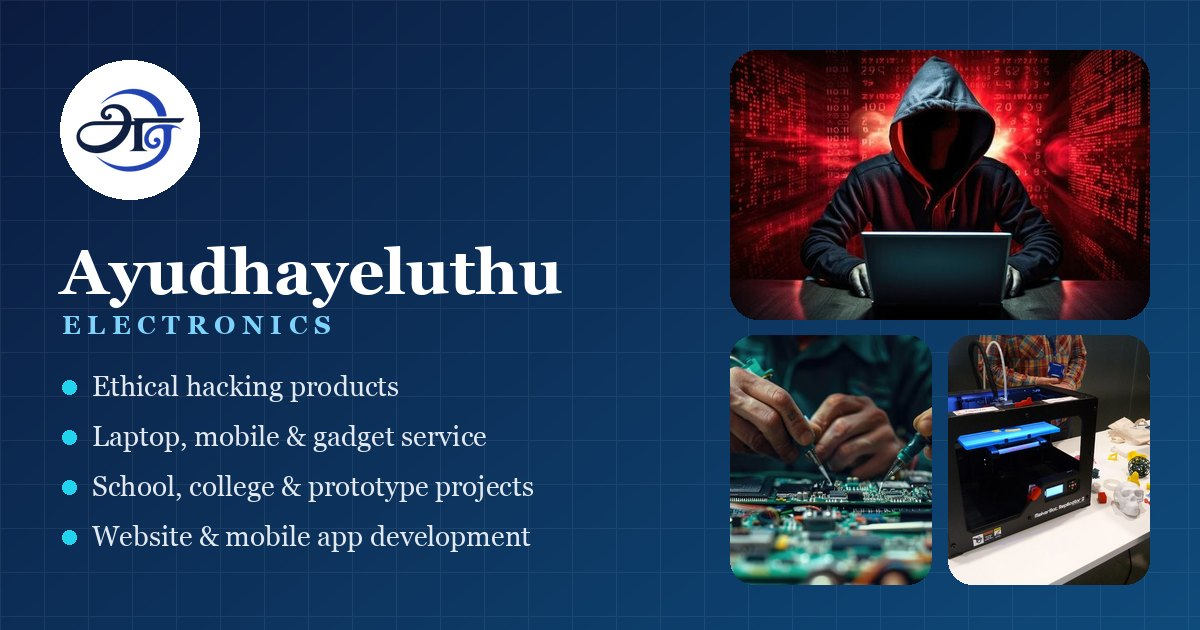
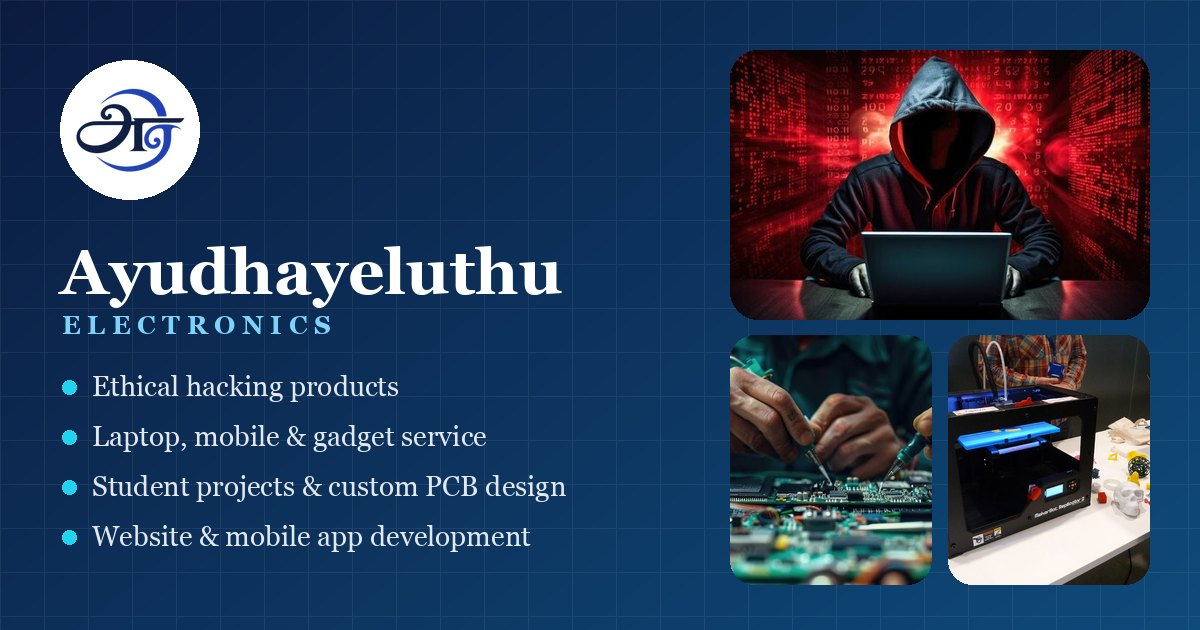
ui changes

Changed region(s): [[0.0925, 0.754, 0.4625, 0.8143]]

diff --git a/src/config.js b/src/config.js
@@ -12,20 +12,21 @@ export const SITE = {
   siteUrl: 'https://ragavanperarasu.github.io/ayudhayeluthuElectronics',
   seo: {
     // Title and description Google shows for the home page
-    title: 'Ayudhayeluthu Electronics | Ethical Hacking, Device Repair, Projects, Websites & Apps',
+    title: 'Ayudhayeluthu Electronics | Ethical Hacking, Device Repair, PCB Design, Websites & Apps',
     description:
-      'Ethical hacking tools, laptop & mobile repair, school and college projects, website and mobile app development. Order easily on WhatsApp.',
+      'Ethical hacking tools, laptop & mobile repair, student projects, custom PCB design, websites and mobile apps. Order easily on WhatsApp.',
     keywords: [
       'ethical hacking products', 'cybersecurity tools', 'Wi-Fi testing tools', 'RFID NFC tools',
       'laptop service', 'mobile service', 'gadget repair', 'school projects', 'college projects',
-      'final year projects', 'prototype building', 'website development', 'e-commerce website',
+      'final year projects', 'prototype building', 'custom PCB design', 'PCB designing', 'single sided PCB', 'double sided PCB', 'multilayer PCB',
+      'PCB assembly', 'website development', 'e-commerce website',
       'mobile app development', 'Android app development', 'iOS app development', 'Ayudhayeluthu Electronics',
     ],
     // Picture shown when the site is shared on WhatsApp, Facebook, LinkedIn… (1200×630, in public/)
     image: 'og-image.jpg',
     locale: 'en_IN',
   },
-  tagline: 'Ethical hacking products, device service, custom projects, websites and mobile apps.',
+  tagline: 'Ethical hacking products, device service, custom projects, PCB design, websites and mobile apps.',
 
   // WhatsApp number with country code, digits only (no +, spaces or dashes)
   whatsappNumber: '916385646698',
@@ -33,7 +34,7 @@ export const SITE = {
   currency: '₹',
 
   // Short points shown in the hero section
-  highlights: ['Ethical hacking tools', 'Laptop, mobile & gadget service', 'School, college & prototype projects', 'Websites & mobile apps'],
+  highlights: ['Ethical hacking tools', 'Laptop, mobile & gadget service', 'School, college & prototype projects', 'Custom PCB design', 'Websites & mobile apps'],
 
   // ── ABOUT ME section ──────────────────────────────────────
   owner: {
@@ -45,8 +46,8 @@ export const SITE = {
     linkedin: 'https://www.linkedin.com/in/perarasu-m-766376362',
     // Each line below is one paragraph — edit freely
     about: [
-      "Hi, I'm Perarasu, the founder of Ayudhayeluthu Electronics. I work across ethical hacking products, electronic device service, custom-built projects, websites and mobile apps.",
-      'I supply tools and kits for learning cybersecurity, service laptops, mobiles and tech gadgets, build custom school projects, college projects and prototypes, and develop websites and mobile apps made to your requirement.',
+      "Hi, I'm Perarasu, the founder of Ayudhayeluthu Electronics. I work across ethical hacking products, electronic device service, custom-built projects, PCB design, websites and mobile apps.",
+      'I supply tools and kits for learning cybersecurity, service laptops, mobiles and tech gadgets, build custom school projects, college projects and prototypes, design custom PCBs, and develop websites and mobile apps made to your requirement.',
       'Every order and enquiry is handled personally, so you always talk directly to me.',
     ],
   },
@@ -67,6 +68,11 @@ export const SITE = {
       icon: 'custom',
       title: 'Custom products',
       text: 'School projects, college projects and prototypes built to your requirement.',
+    },
+    {
+      icon: 'pcb',
+      title: 'Custom PCB design',
+      text: 'Single-sided, double-sided and multilayer PCB design, plus assembly.',
     },
     {
       icon: 'web',

diff --git a/src/data/categories.js b/src/data/categories.js
@@ -127,6 +127,47 @@ const categories = [
     ],
   },
   {
+    id: 'pcb-design',
+    name: 'Custom PCB Design',
+    shortName: 'PCB Design',
+    icon: 'pcb',
+    image: 'images/categories/custom-pcb-design.jpg',
+    imageAlt: 'PCB layout design with copper traces on both layers',
+    tagline: 'Single-sided, double-sided and multilayer PCBs designed to your circuit.',
+    description:
+      'Send us your circuit or idea and we design the schematic and PCB layout, prepare Gerber files and help you get boards made and assembled.',
+    subcategories: [
+      {
+        id: 'single-sided-pcb',
+        name: 'Single-Sided PCB',
+        image: 'images/categories/single-sided-pcb.jpg',
+        imageAlt: 'Single-sided PCB with through-hole components',
+        description: 'Copper on one side: low-cost boards for simple circuits and student projects.',
+      },
+      {
+        id: 'double-sided-pcb',
+        name: 'Double-Sided PCB',
+        image: 'images/categories/double-sided-pcb.jpg',
+        imageAlt: 'Green double-sided PCB with traces and plated vias',
+        description: 'Copper on both sides with plated vias for compact, more complex circuits.',
+      },
+      {
+        id: 'multilayer-pcb',
+        name: 'Multilayer PCB',
+        image: 'images/categories/multilayer-pcb.jpg',
+        imageAlt: 'High-density multilayer PCB with a microcontroller chip',
+        description: '4 or more layers for high-density, high-speed and microcontroller designs.',
+      },
+      {
+        id: 'pcb-assembly',
+        name: 'PCB Assembly',
+        image: 'images/categories/pcb-assembly.jpg',
+        imageAlt: 'Assembled PCB populated with electronic components',
+        description: 'Soldering of SMD and through-hole components on your boards, tested and ready to use.',
+      },
+    ],
+  },
+  {
     id: 'website-development',
     name: 'Website Development',
     shortName: 'Websites',

diff --git a/src/data/products.js b/src/data/products.js
@@ -23,11 +23,12 @@
 //    specs: { Chipset: 'Example', Interface: 'USB 3.0' },
 //  },
 //
-//  Category ids:      ethical-hacking, device-service, custom-projects,
+//  Category ids:      ethical-hacking, device-service, custom-projects, pcb-design,
 //                     website-development, mobile-app-development
 //  Sub-category ids:  wifi-network, usb-hid, rfid-nfc, learning-kits,
 //                     laptop-service, mobile-service, gadget-service,
 //                     school-projects, college-projects, prototype-building,
+//                     single-sided-pcb, double-sided-pcb, multilayer-pcb, pcb-assembly,
 //                     business-websites, ecommerce-websites, portfolio-websites,
 //                     android-apps, ios-apps, cross-platform-apps
 // ─────────────────────────────────────────────────────────────

diff --git a/src/components/Header.jsx b/src/components/Header.jsx
@@ -48,7 +48,7 @@ export default function Header({ onCartClick }) {
           </IconButton>
           <Logo />
           <Box sx={{ flexGrow: 1 }} />
-          <Stack direction="row" spacing={0.25} sx={{ display: { xs: 'none', lg: 'flex' } }}>
+          <Stack direction="row" spacing={0} sx={{ display: { xs: 'none', lg: 'flex' } }}>
             {links.map((l) => (
               <Button
                 key={l.to}
@@ -58,6 +58,10 @@ export default function Header({ onCartClick }) {
                 color="inherit"
                 sx={{
                   fontWeight: 700,
+                  fontSize: 15,
+                  whiteSpace: 'nowrap', // keep every label on one line
+                  minWidth: 0,
+                  px: 1.25,
                   color: 'text.secondary',
                   '&.active': { color: 'primary.main', bgcolor: 'rgba(37,99,235,.08)' },
                 }}

diff --git a/src/components/CategoryIcon.jsx b/src/components/CategoryIcon.jsx
@@ -4,6 +4,7 @@ import EmojiObjectsRoundedIcon from '@mui/icons-material/EmojiObjectsRounded';
 import CategoryRoundedIcon from '@mui/icons-material/CategoryRounded';
 import LanguageRoundedIcon from '@mui/icons-material/LanguageRounded';
 import PhoneIphoneRoundedIcon from '@mui/icons-material/PhoneIphoneRounded';
+import DeveloperBoardRoundedIcon from '@mui/icons-material/DeveloperBoardRounded';
 
 const ICONS = {
   security: SecurityRoundedIcon,
@@ -11,6 +12,7 @@ const ICONS = {
   custom: EmojiObjectsRoundedIcon,
   web: LanguageRoundedIcon,
   app: PhoneIphoneRoundedIcon,
+  pcb: DeveloperBoardRoundedIcon,
 };
 
 export default function CategoryIcon({ name, ...props }) {

diff --git a/src/components/Hero.jsx b/src/components/Hero.jsx
@@ -20,7 +20,7 @@ const showcase = [
 ].map((s) => ({ image: s.image, alt: s.alt || s.imageAlt, label: s.label }));
 
 // Phrases that rotate in the headline
-const PHRASES = ['ethical hacking tools', 'laptop & mobile repair', 'custom-built projects', 'websites & mobile apps'];
+const PHRASES = ['ethical hacking tools', 'laptop & mobile repair', 'custom-built projects', 'custom PCB design', 'websites & mobile apps'];
 
 // entrance animation for the left column, one element after another
 const column = { hidden: {}, show: { transition: { staggerChildren: 0.12, delayChildren: 0.15 } } };

diff --git a/src/seo/pageMeta.js b/src/seo/pageMeta.js
@@ -15,7 +15,7 @@ export const homeMeta = () => ({ title: '', description: SITE.seo.description, i
 
 export const aboutMeta = () => ({
   title: `About ${SITE.owner.name} – Founder`,
-  description: `Meet ${SITE.owner.name}, founder of ${SITE.name}: ethical hacking products, device service, custom projects, websites and mobile apps.`,
+  description: `Meet ${SITE.owner.name}, founder of ${SITE.name}: ethical hacking products, device service, custom projects, PCB design, websites and mobile apps.`,
   image: SITE.owner.photo,
 });
 

diff --git a/src/pages/AboutPage.jsx b/src/pages/AboutPage.jsx
@@ -11,7 +11,7 @@ export default function AboutPage() {
       <PageBanner
         crumbs={[{ label: 'Home', to: '/' }, { label: 'About' }]}
         title="About Ayudhayeluthu Electronics"
-        description="Ethical hacking products, device service, custom projects, websites and mobile apps, handled personally."
+        description="Ethical hacking products, device service, custom projects, PCB design, websites and mobile apps, handled personally."
       />
       <About />
       <HowToOrder />

diff --git a/README.md b/README.md
@@ -5,6 +5,7 @@ Static website built with **React + Material UI (Vite)** and **React Router**.
 - **Ethical Hacking Products**: Wi-Fi & network testing, USB & HID tools, RFID & NFC tools, learning kits
 - **Electronic Device Service**: laptop, mobile and tech gadget service
 - **Custom Product Creation**: school projects, college projects, prototype building
+- **Custom PCB Design**: single-sided, double-sided, multilayer PCB, PCB assembly
 - **Website Development**: business websites, e-commerce websites, portfolio & personal websites
 - **Mobile App Development**: Android apps, iOS apps, cross-platform apps
 
@@ -14,7 +15,7 @@ Customers order on **WhatsApp**. WhatsApp opens only from the order buttons, wit
 
 | Address | Page |
 | --- | --- |
-| `/` | Home: the 5 main categories |
+| `/` | Home: the 6 main categories |
 | `/category/ethical-hacking` | A main category: its sub-categories |
 | `/category/ethical-hacking/wifi-network` | A sub-category: its products (shows "Items coming soon" while empty) |
 | `/product/AYE-001` | A single product's details |
@@ -59,7 +60,7 @@ Set `siteUrl` in `src/config.js` to the new address first (the folder the site l
 
 Open **`src/data/products.js`**. It starts empty and has a ready-to-copy example at the top. Each product needs:
 
-- `category`: the main category id (`ethical-hacking`, `device-service`, `custom-projects`, `website-development`, `mobile-app-development`)
+- `category`: the main category id (`ethical-hacking`, `device-service`, `custom-projects`, `pcb-design`, `website-development`, `mobile-app-development`)
 - `subcategory`: the sub-category id (listed at the top of the file)
 
 `price` is optional. Leave it out and the site shows **"Price on request"** (useful for repair services and custom projects).

diff --git a/IMAGE-CREDITS.md b/IMAGE-CREDITS.md
@@ -27,3 +27,8 @@ They were cropped and resized to 1000×750.
 | android-app-development.jpg | CC0 | https://www.flickr.com/photos/12375388@N08/31083977126 |
 | ios-app-development.jpg | CC0 | https://www.flickr.com/photos/135396164@N05/31303563276 |
 | cross-platform-app-development.jpg | CC0 | https://www.flickr.com/photos/135396164@N05/30302883830 |
+| custom-pcb-design.jpg | Public Domain Mark | https://www.flickr.com/photos/47132899@N00/3818379983 |
+| single-sided-pcb.jpg | CC0 | https://commons.wikimedia.org/w/index.php?curid=152121784 |
+| double-sided-pcb.jpg | CC0 | https://www.rawpixel.com/image/6028530/photo-image-public-domain-technology-lines |
+| multilayer-pcb.jpg | CC0 | https://www.rawpixel.com/image/5966842/computer-circuit-board-macro |
+| pcb-assembly.jpg | CC0 | https://commons.wikimedia.org/w/index.php?curid=113851771 |
